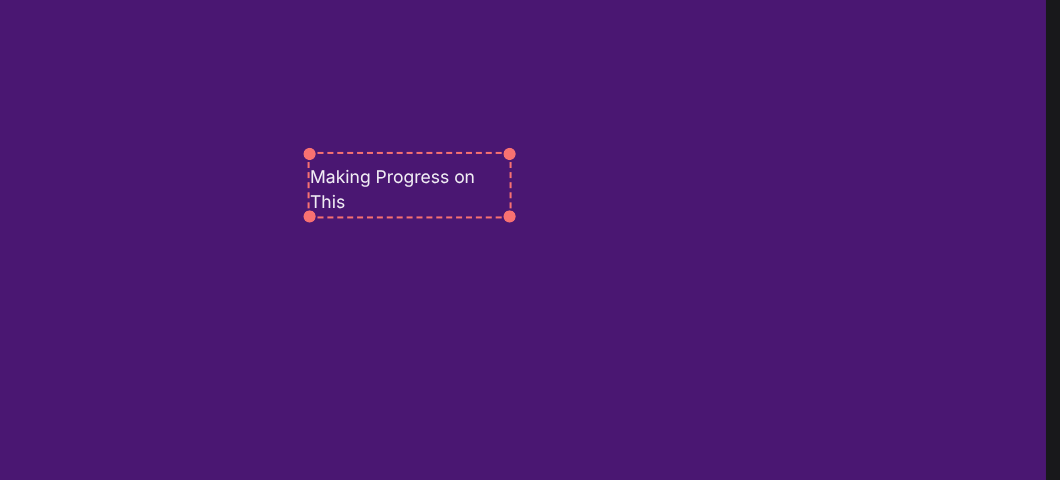
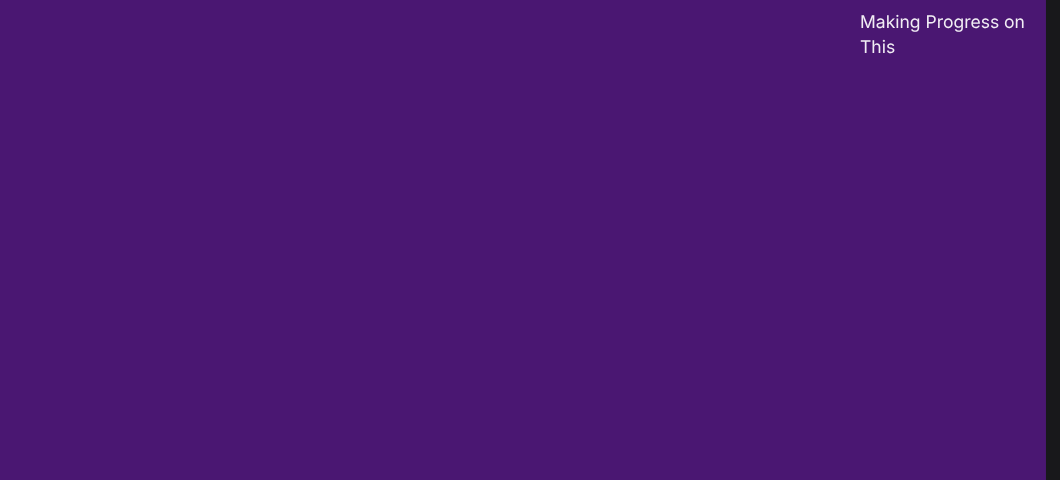
implemented theme editing & removing the selected indicator when taking theme images

Changed region(s): [[0.2802, 0.3125, 0.4981, 0.4688], [0.8094, 0.0312, 0.9651, 0.125], [0.467, 0.3125, 0.4981, 0.3438]]

diff --git a/src/components/modals/ThemeEditor.tsx b/src/components/modals/ThemeEditor.tsx
@@ -15,6 +15,7 @@ import RenderEditor from "../app/editor/ui/RenderEditor";
 import RenderEditorSettings from "../app/editor/ui/RenderEditorSettings";
 import { useFps } from "solidjs-use";
 import screenshotDiv from "html2canvas";
+import { getKeyByValue, getToastType, toaster } from "~/utils";
 
 interface Props {
 	open: boolean;
@@ -29,18 +30,27 @@ export default function ThemeEditor() {
 	const { appStore, setAppStore } = useAppContext();
 	const type = createMemo(() => appStore.themeEditor.type);
 	const open = createMemo(() => appStore.themeEditor.open);
+	const initial = createMemo(() => appStore.themeEditor.initial);
 	const {
 		getters: { getRootRef },
-		helpers: { exportTheme },
+		helpers: { exportTheme, loadTheme },
 	} = useEditor();
+
+	createEffect(() => {
+		const reset = initial();
+		console.log("Loading Theme: ", initial());
+		loadTheme(reset ? JSON.parse(reset.theme_data) : undefined);
+		setName(reset?.title ?? "");
+	});
 
 	const saveTheme = async () => {
 		// e.preventDefault();
-		setName(name());
+		const themeName = name();
 		const rootRef = getRootRef();
-		if (!rootRef) return;
+		if (!rootRef || !themeName) return;
 
 		const themeData = exportTheme();
+		const formerTheme = initial();
 		const canvas = await screenshotDiv(rootRef);
 		let preview: ArrayBuffer;
 		canvas.toBlob(async (blob) => {
@@ -50,19 +60,41 @@ export default function ThemeEditor() {
 			console.log("Here is the preview blob: ", preview);
 
 			const theme: ThemeInput = {
-				title: name(),
+				title: themeName,
 				author: "Eyetu Kingsley",
 				type: type(),
 				theme_data: JSON.stringify(themeData),
 				preview,
 			};
 			console.log("THEME TO ADD: ", theme);
-			window.electronAPI.addTheme(theme).then((response) => {
+			if (formerTheme === null) {
+				const response = await window.electronAPI.addTheme(theme);
 				console.log("Theme Added Successfully: ", response);
-			});
-		});
+			} else {
+				const { success, message, updatedTheme } =
+					await window.electronAPI.updateTheme(formerTheme.id, theme);
+				// const key = getKeyByValue(defaultThemes, formerTheme.id)
+				// if (key && updatedTheme) {
+				// 	if (key.startsWith('scripture')) {
+				// 		dispatch(changeScriptureTheme(updatedTheme))
+				// 	} else if (key.startsWith('song')) {
+				// 		dispatch(changeSongTheme(updatedTheme))
+				// 	}
+				// }
+				console.log("Updated Theme: ", updatedTheme);
+				// dispatch(bustMediaCache([updatedTheme.preview_path]))
 
-		// onDialogOpen({ open: false });
+				// dispatch(updateThemeEditor({ open: false }))
+				toaster.create({
+					type: getToastType(success),
+					title: message,
+				});
+				setName("");
+
+				console.log(theme, success);
+			}
+			onDialogOpen({ open: false });
+		});
 	};
 
 	const onDialogOpen = (e: DialogOpenChangeDetails) =>

diff --git a/src/components/app/editor/Editor.tsx b/src/components/app/editor/Editor.tsx
@@ -16,6 +16,9 @@ import type {
 	EditorNodeConnectors,
 	EditorRenderComponent,
 	EditorRenderMap,
+	ExportedTheme,
+	ExportThemeFn,
+	LoadThemeFn,
 	NodeDragEventHandler,
 	NodeId,
 	NodeSelectHandler,
@@ -27,7 +30,7 @@ import type {
 	UseResizeNodeFn,
 } from "./editor-types";
 import EditorContext from "./EditorContext";
-import { createStore, unwrap } from "solid-js/store";
+import { createStore, produce, unwrap } from "solid-js/store";
 import type { EditorStore } from "./editor-types";
 import { createId, transformEditorComp } from "~/utils";
 
@@ -192,7 +195,8 @@ export default function Editor(props: Props) {
 		);
 	});
 
-	const exportTheme = () => {
+	const exportTheme: ExportThemeFn = () => {
+		selectNode(null);
 		const pickProperties = ["id", "compName", "data", "style"];
 		// const nodeData = Object.getOwnPropertyNames(editor.nodes).map(node => ({   }))
 		const nodeData = Object.entries(editor.nodes)
@@ -201,6 +205,26 @@ export default function Editor(props: Props) {
 		return {
 			nodes: nodeData,
 		};
+	};
+
+	const loadTheme: LoadThemeFn = (savedTheme = { nodes: [] }) => {
+		console.log("Loading Theme: ", savedTheme);
+		setEditor(
+			produce((store) => {
+				console.log("To Map: ", savedTheme.nodes);
+				store.selectedId = null;
+				console.log(store.handlers);
+				store.nodes = Object.fromEntries(
+					savedTheme.nodes.map((node) => {
+						transformEditorComp(props.renderMap[node.compName]);
+						console.log(props.renderMap[node.compName]);
+						console.log({ ...node, comp: props.renderMap[node.compName] });
+						return [node.id, { ...node, comp: props.renderMap[node.compName] }];
+					}),
+				);
+			}),
+		);
+		console.log(unwrap(editor));
 	};
 
 	const contextValue = {
@@ -217,7 +241,7 @@ export default function Editor(props: Props) {
 		},
 		setters: { setRootRef, setNodeStyle, setNodeData },
 		hooks: { useSelect: useNodeSelect, useNodeDrag, useResizeNode },
-		helpers: { selectNode, exportTheme },
+		helpers: { selectNode, exportTheme, loadTheme },
 	};
 
 	return (

diff --git a/src/components/app/editor/ui/RenderEditor.tsx b/src/components/app/editor/ui/RenderEditor.tsx
@@ -119,11 +119,11 @@ export default function RenderEditor() {
 		const newPos = calculateParentOffset(
 			(target as HTMLElement).getBoundingClientRect(),
 			editorRootRef.getBoundingClientRect(),
-			true,
 		);
+		console.log(offset, newPos);
 		setStore(
 			"indicatorPos",
-			offset.map((v) => v - demarcationBorderWidth),
+			newPos.map((v) => v - demarcationBorderWidth),
 		);
 	});
 
@@ -270,12 +270,12 @@ export default function RenderEditor() {
 				setRootRef(ref);
 			}}
 		>
-			<For each={Object.keys(editor.nodes)}>
-				{(id) => (
-					<NodeProvider node={editor.nodes[id]} register={register}>
+			<For each={Object.values(editor.nodes)}>
+				{(node) => (
+					<NodeProvider node={node} register={register}>
 						<Dynamic
-							component={getNodeRenderComp(editor.nodes[id])}
-							{...getNodeRenderComp(editor.nodes[id]).config.defaultData}
+							component={getNodeRenderComp(node)}
+							{...getNodeRenderComp(node).config.defaultData}
 						/>
 					</NodeProvider>
 				)}

diff --git a/src/components/app/editor/Node.tsx b/src/components/app/editor/Node.tsx
@@ -16,7 +16,7 @@ import type {
 import { useEditor } from "./Editor";
 import { useDrag } from "solid-gesture";
 import type { FullGestureState } from "@use-gesture/core/types";
-import { calculateParentOffset } from "~/utils";
+import { calculateParentOffset, getNum } from "~/utils";
 
 export interface NodeActions {
 	setStyle: SetStoreFunction<JSX.CSSProperties>;
@@ -76,7 +76,10 @@ export default function NodeProvider(props: NodeProviderProps) {
 	const [nodeStore, setNodeStore] = createStore<NodeProviderStore>({
 		node: props.node,
 		coords: { ...defaultCoords }, // destructure when assigning to stores so you don't set a reference that another property will make use of (which will make updates to one property to affect the other)
-		position: [0, 0],
+		position: [
+			getNum(props.node.style, "left", true),
+			getNum(props.node.style, "top", true),
+		],
 		dragDisabled: false,
 		resizeCoords: {
 			topLeft: defaultCoords,

diff --git a/src/components/app/theme/ThemeSelection.tsx b/src/components/app/theme/ThemeSelection.tsx
@@ -250,11 +250,15 @@ export default function ThemeSelection() {
 	//     pushToLive(fluidFocusId(), false)
 	// })
 
-	const handleThemeEdit = () => {
+	const handleThemeEdit = async () => {
 		const toEdit = fluidFocusId();
-		// if (toEdit) {
-		//     setAppStore("themeEditor", { open: true, type: type, theme: filteredThemes()[toEdit] });
-		// }
+		console.log("Handle Theme Edit: ", toEdit);
+		if (typeof toEdit !== "number") return;
+
+		const id = filteredThemes()[toEdit].id;
+		const theme = await window.electronAPI.fetchTheme(id);
+		console.log(theme, id);
+		setAppStore("themeEditor", { open: true, type: "song", initial: theme });
 	};
 
 	const handleFilter = (e: InputEvent) => {

diff --git a/src/components/app/editor/editor-types.ts b/src/components/app/editor/editor-types.ts
@@ -99,6 +99,8 @@ export type UseResizeNodeFn = (id: NodeId, scaleValues: ScaleValues) => void;
 export type SelectNodeFn = (id: NodeId) => void;
 export type EditorRenderMap = Record<string, EditorRenderComponent>;
 export type ThemeRenderMap = Record<string, ThemeRenderComponent>;
+export type LoadThemeFn = (theme?: ExportedTheme) => void;
+export type ExportThemeFn = () => ExportedTheme;
 
 export interface EditorContextValue {
 	editor: EditorStore;
@@ -124,7 +126,8 @@ export interface EditorContextValue {
 	};
 	helpers: {
 		selectNode: SelectNodeFn;
-		exportTheme: () => ExportedTheme;
+		exportTheme: ExportThemeFn;
+		loadTheme: LoadThemeFn;
 	};
 }
 

diff --git a/src/types/context.d.ts b/src/types/context.d.ts
@@ -2,7 +2,7 @@
  *   Declaration file for the API exposed over the context bridge
  *********************************************************************/
 
-import {
+import type {
 	ChapterData,
 	ImportOptions,
 	MediaItem,
@@ -11,7 +11,8 @@ import {
 	ThemeInput,
 	ThemeMetadata,
 	ThemeType,
-} from "@/utils/types";
+	Theme,
+} from "./index";
 import { Display } from "electron/main";
 
 export interface ChapterCountObj {

diff --git a/src/utils/index.ts b/src/utils/index.ts
@@ -311,8 +311,10 @@ export const getFocusableStyles: FocusStylesGetter = (
 export const getNum = (
 	styles: JSX.CSSProperties,
 	property: keyof JSX.CSSProperties,
+	isFloat?: boolean,
 ) => {
-	return parseInt(styles[property]?.toString() ?? "0");
+	const parseFn = isFloat ? parseFloat : parseInt;
+	return parseFn(styles[property]?.toString() ?? "0");
 };
 
 export const getColor = (
